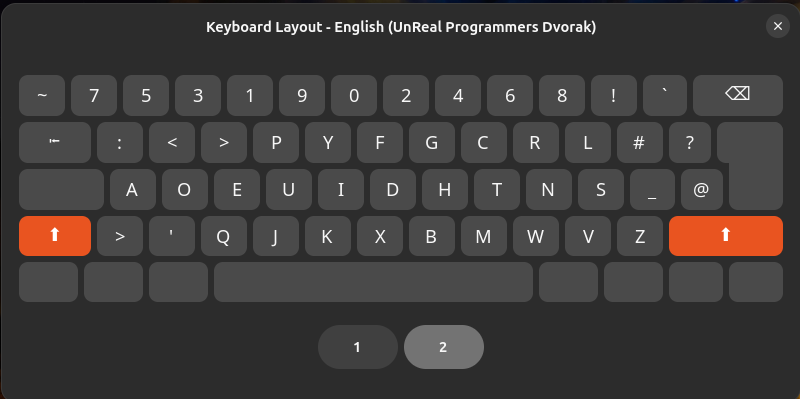
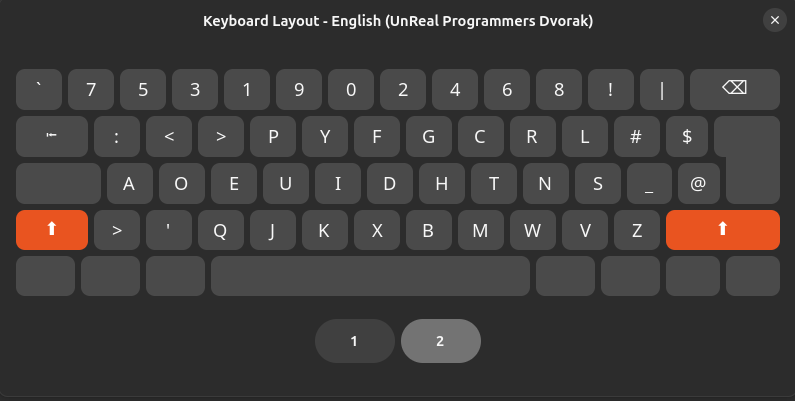
did stuff

diff --git a/xkb/README.md b/xkb/README.md
@@ -1,10 +1,7 @@
 
 # ⌨ Custom Keyboard layout config — Installation Guide
 
-Includes two keyboard layouts for a custom qwerty and dvorak layout in the xkb dir.
-
 Inspired by the primeagen's layout.
-
 
 ### Base layer 
 ![Programmers dvorak](./base.png)
